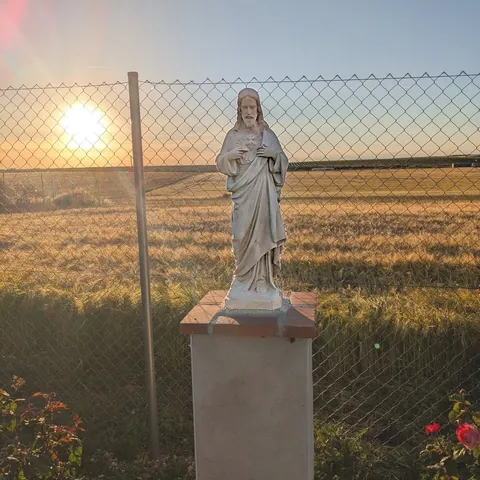
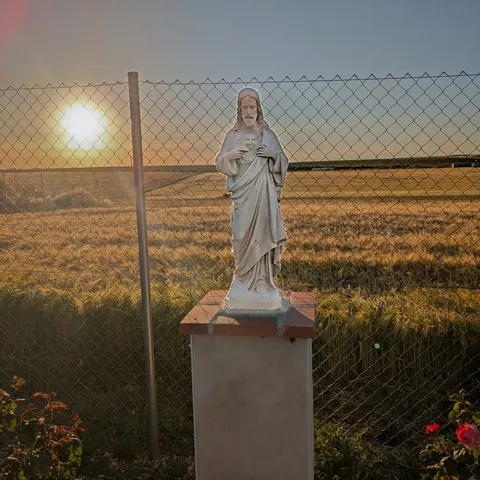
Sagrado Corazón: fondo más suave, sin saturar sol y campos
Claude-Session: https://claude.ai/code/session_01CUYjSQBrTt6S214k245qsV

diff --git a/en/index.html b/en/index.html
@@ -434,7 +434,7 @@ textarea{min-height:9rem;resize:vertical}
         <figure><img src="../fotos/paseo-burro-480.webp" srcset="../fotos/paseo-burro-480.webp 480w, ../fotos/paseo-burro-900.webp 900w" sizes="(max-width:880px) 50vw, 260px" width="900" height="900" loading="lazy" decoding="async" alt="Children riding the donkey across a stubble field, with adults walking alongside"><figcaption>Donkey rides for the youngest</figcaption></figure>
         <figure><img src="../fotos/capilla-perros-480.webp" srcset="../fotos/capilla-perros-480.webp 480w, ../fotos/capilla-perros-900.webp 900w" sizes="(max-width:880px) 50vw, 260px" width="900" height="900" loading="lazy" decoding="async" alt="A small white chapel with a bell gable; in front, the dogs rest on bales of straw"><figcaption>The chapel, under the dogs’ watch</figcaption></figure>
         <figure><img src="../fotos/capilla-interior-480.webp" srcset="../fotos/capilla-interior-480.webp 480w, ../fotos/capilla-interior-900.webp 900w" sizes="(max-width:880px) 50vw, 260px" width="900" height="900" loading="lazy" decoding="async" alt="The simple interior of the chapel, with an altar, a crucifix and two statues; a man sits reading on a bench"><figcaption>A time of prayer and silence in the hermitage chapel</figcaption></figure>
-        <figure><img src="../fotos/sagrado-corazon-480.webp?v=2" srcset="../fotos/sagrado-corazon-480.webp?v=2 480w, ../fotos/sagrado-corazon-900.webp?v=2 900w" sizes="(max-width:880px) 50vw, 260px" width="900" height="900" loading="lazy" decoding="async" alt="A statue of the Sacred Heart on a pedestal, facing a cereal field with the sun low"><figcaption>The Sacred Heart, facing the fields</figcaption></figure>
+        <figure><img src="../fotos/sagrado-corazon-480.webp?v=3" srcset="../fotos/sagrado-corazon-480.webp?v=3 480w, ../fotos/sagrado-corazon-900.webp?v=3 900w" sizes="(max-width:880px) 50vw, 260px" width="900" height="900" loading="lazy" decoding="async" alt="A statue of the Sacred Heart on a pedestal, facing a cereal field with the sun low"><figcaption>The Sacred Heart, facing the fields</figcaption></figure>
         <figure><img src="../fotos/cruz-piedra-480.webp" srcset="../fotos/cruz-piedra-480.webp 480w, ../fotos/cruz-piedra-900.webp 900w" sizes="(max-width:880px) 50vw, 260px" width="900" height="900" loading="lazy" decoding="async" alt="A lichen-covered stone cross among flowering broom and poppies, under a cloudy sky"><figcaption>Stone cross</figcaption></figure>
         <figure><img src="../fotos/atardecer-480.webp" srcset="../fotos/atardecer-480.webp 480w, ../fotos/atardecer-900.webp 900w" sizes="(max-width:880px) 50vw, 260px" width="900" height="900" loading="lazy" decoding="async" alt="A wooden hut with a cross on its roof and a tall cross in the field, at sunset"><figcaption>As evening falls</figcaption></figure>
       </div>

diff --git a/index.html b/index.html
@@ -434,7 +434,7 @@ textarea{min-height:9rem;resize:vertical}
         <figure><img src="fotos/paseo-burro-480.webp" srcset="fotos/paseo-burro-480.webp 480w, fotos/paseo-burro-900.webp 900w" sizes="(max-width:880px) 50vw, 260px" width="900" height="900" loading="lazy" decoding="async" alt="Niños a lomos del burro en un rastrojo, acompañados por adultos"><figcaption>Paseo en burro con los más pequeños</figcaption></figure>
         <figure><img src="fotos/capilla-perros-480.webp" srcset="fotos/capilla-perros-480.webp 480w, fotos/capilla-perros-900.webp 900w" sizes="(max-width:880px) 50vw, 260px" width="900" height="900" loading="lazy" decoding="async" alt="Pequeña capilla blanca con espadaña y campana; delante, los perros descansan sobre unas balas de paja"><figcaption>La capilla, bajo la guardia de los perros</figcaption></figure>
         <figure><img src="fotos/capilla-interior-480.webp" srcset="fotos/capilla-interior-480.webp 480w, fotos/capilla-interior-900.webp 900w" sizes="(max-width:880px) 50vw, 260px" width="900" height="900" loading="lazy" decoding="async" alt="Interior sencillo de la capilla, con altar, crucifijo y dos imágenes; un hombre lee sentado en un banco"><figcaption>Un rato de oración y silencio en la ermita</figcaption></figure>
-        <figure><img src="fotos/sagrado-corazon-480.webp?v=2" srcset="fotos/sagrado-corazon-480.webp?v=2 480w, fotos/sagrado-corazon-900.webp?v=2 900w" sizes="(max-width:880px) 50vw, 260px" width="900" height="900" loading="lazy" decoding="async" alt="Imagen del Sagrado Corazón sobre un pedestal, ante un campo de cereal con el sol bajo"><figcaption>El Sagrado Corazón, frente a los campos</figcaption></figure>
+        <figure><img src="fotos/sagrado-corazon-480.webp?v=3" srcset="fotos/sagrado-corazon-480.webp?v=3 480w, fotos/sagrado-corazon-900.webp?v=3 900w" sizes="(max-width:880px) 50vw, 260px" width="900" height="900" loading="lazy" decoding="async" alt="Imagen del Sagrado Corazón sobre un pedestal, ante un campo de cereal con el sol bajo"><figcaption>El Sagrado Corazón, frente a los campos</figcaption></figure>
         <figure><img src="fotos/cruz-piedra-480.webp" srcset="fotos/cruz-piedra-480.webp 480w, fotos/cruz-piedra-900.webp 900w" sizes="(max-width:880px) 50vw, 260px" width="900" height="900" loading="lazy" decoding="async" alt="Cruz de piedra cubierta de líquenes entre retamas en flor y amapolas, bajo un cielo nublado"><figcaption>Cruz de piedra</figcaption></figure>
         <figure><img src="fotos/atardecer-480.webp" srcset="fotos/atardecer-480.webp 480w, fotos/atardecer-900.webp 900w" sizes="(max-width:880px) 50vw, 260px" width="900" height="900" loading="lazy" decoding="async" alt="Caseta de madera con una cruz en el tejado y una gran cruz en el campo, al atardecer"><figcaption>Al caer la tarde</figcaption></figure>
       </div>
